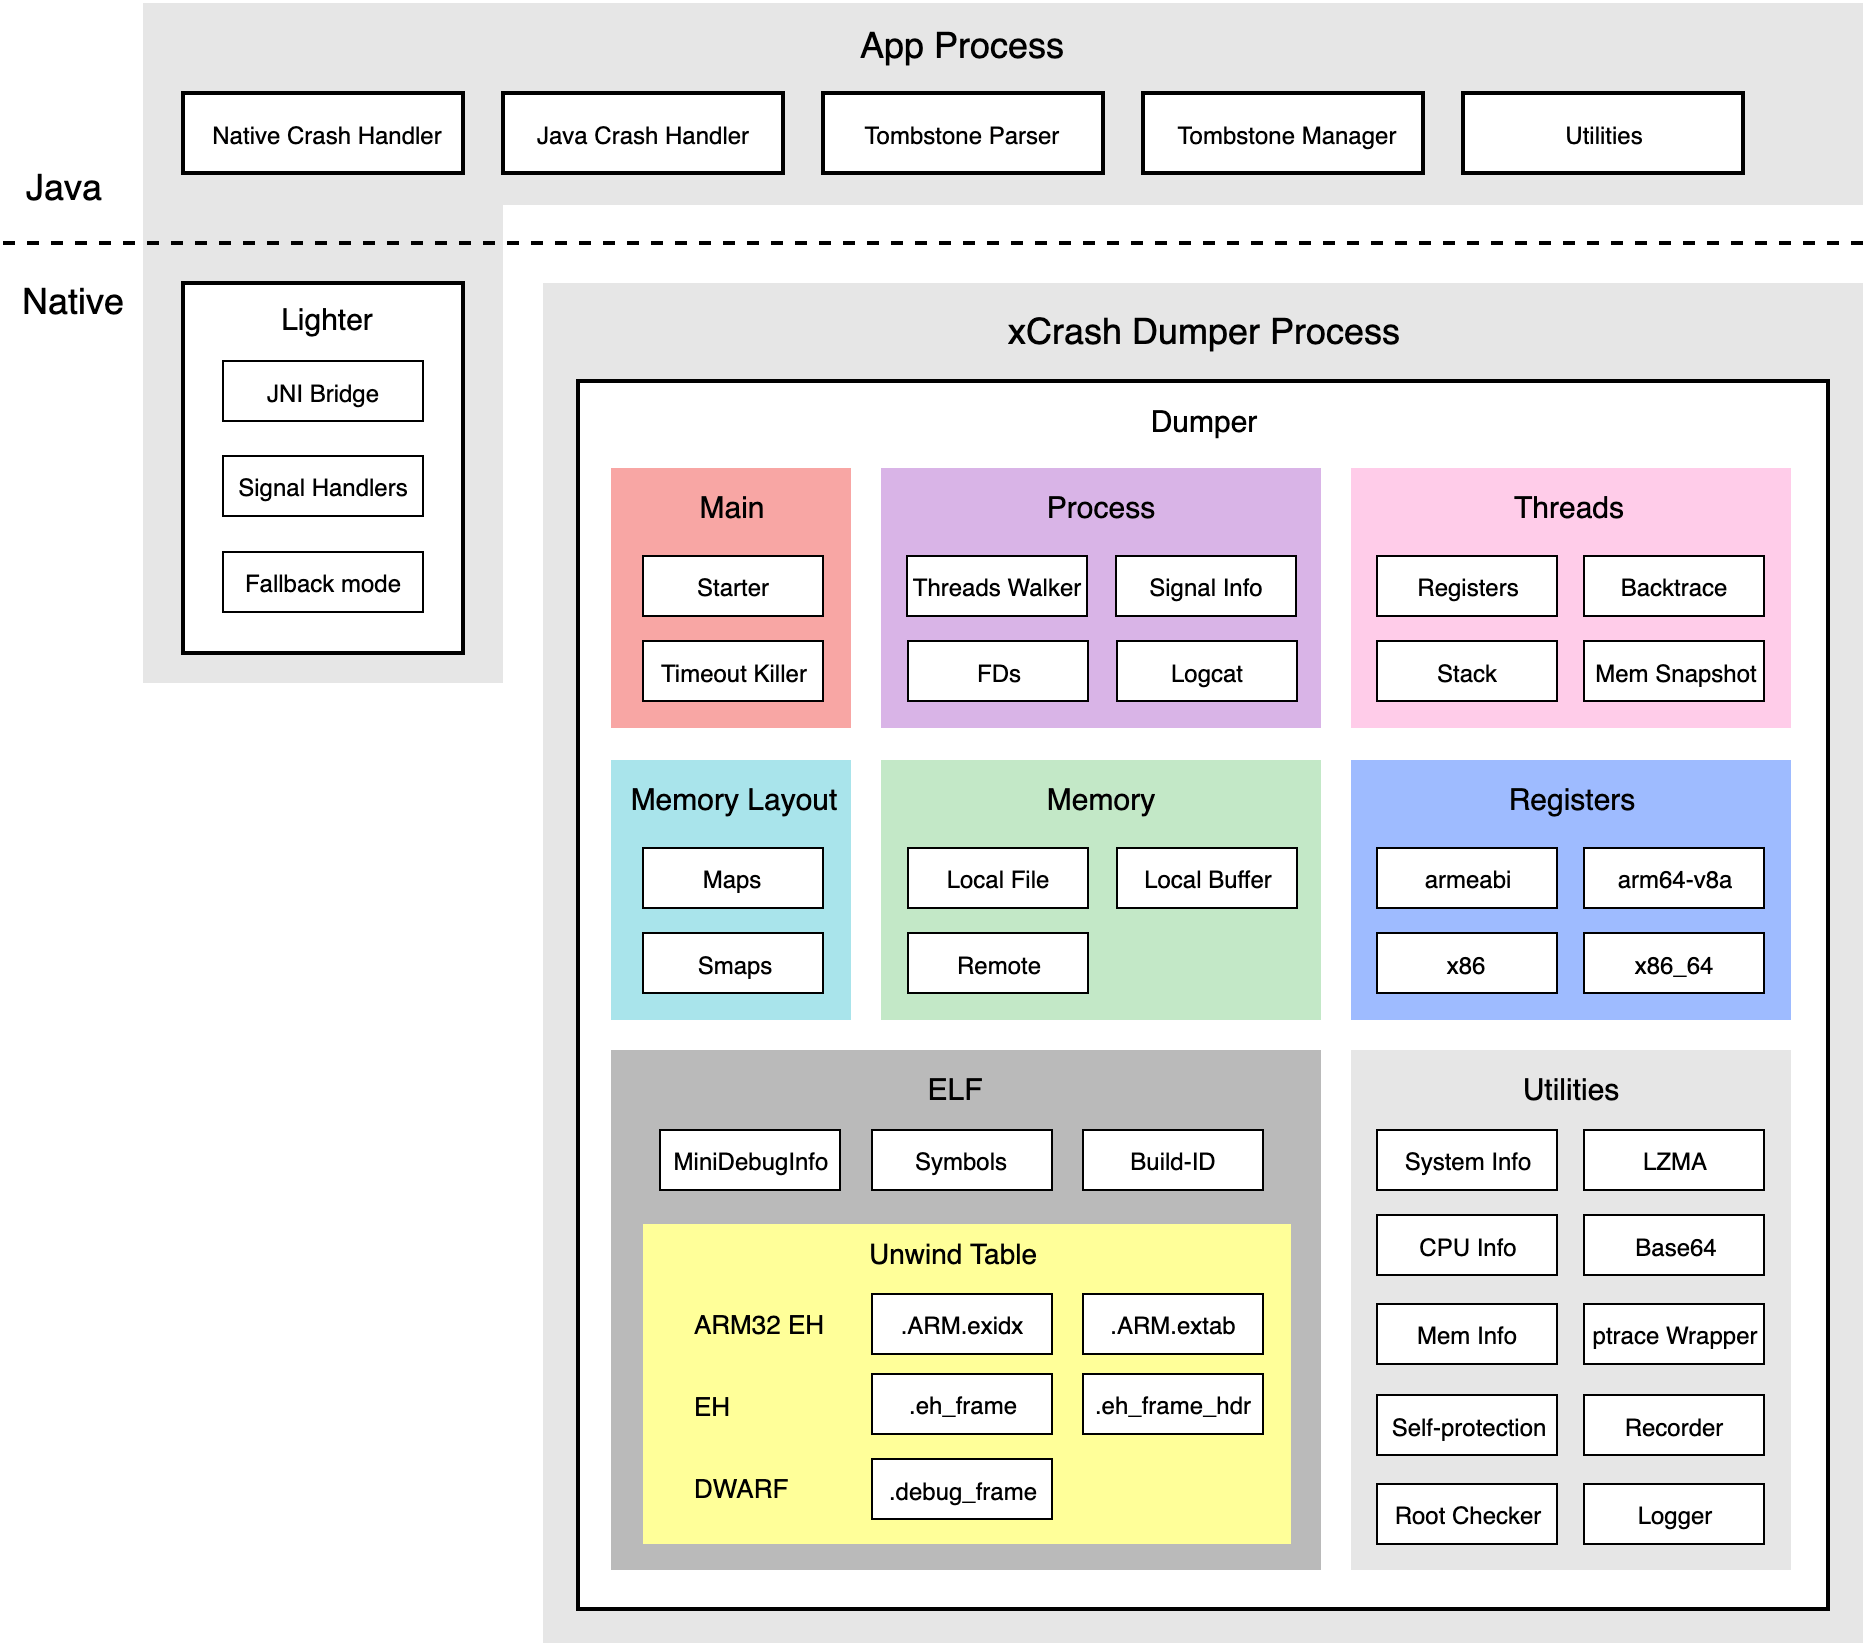
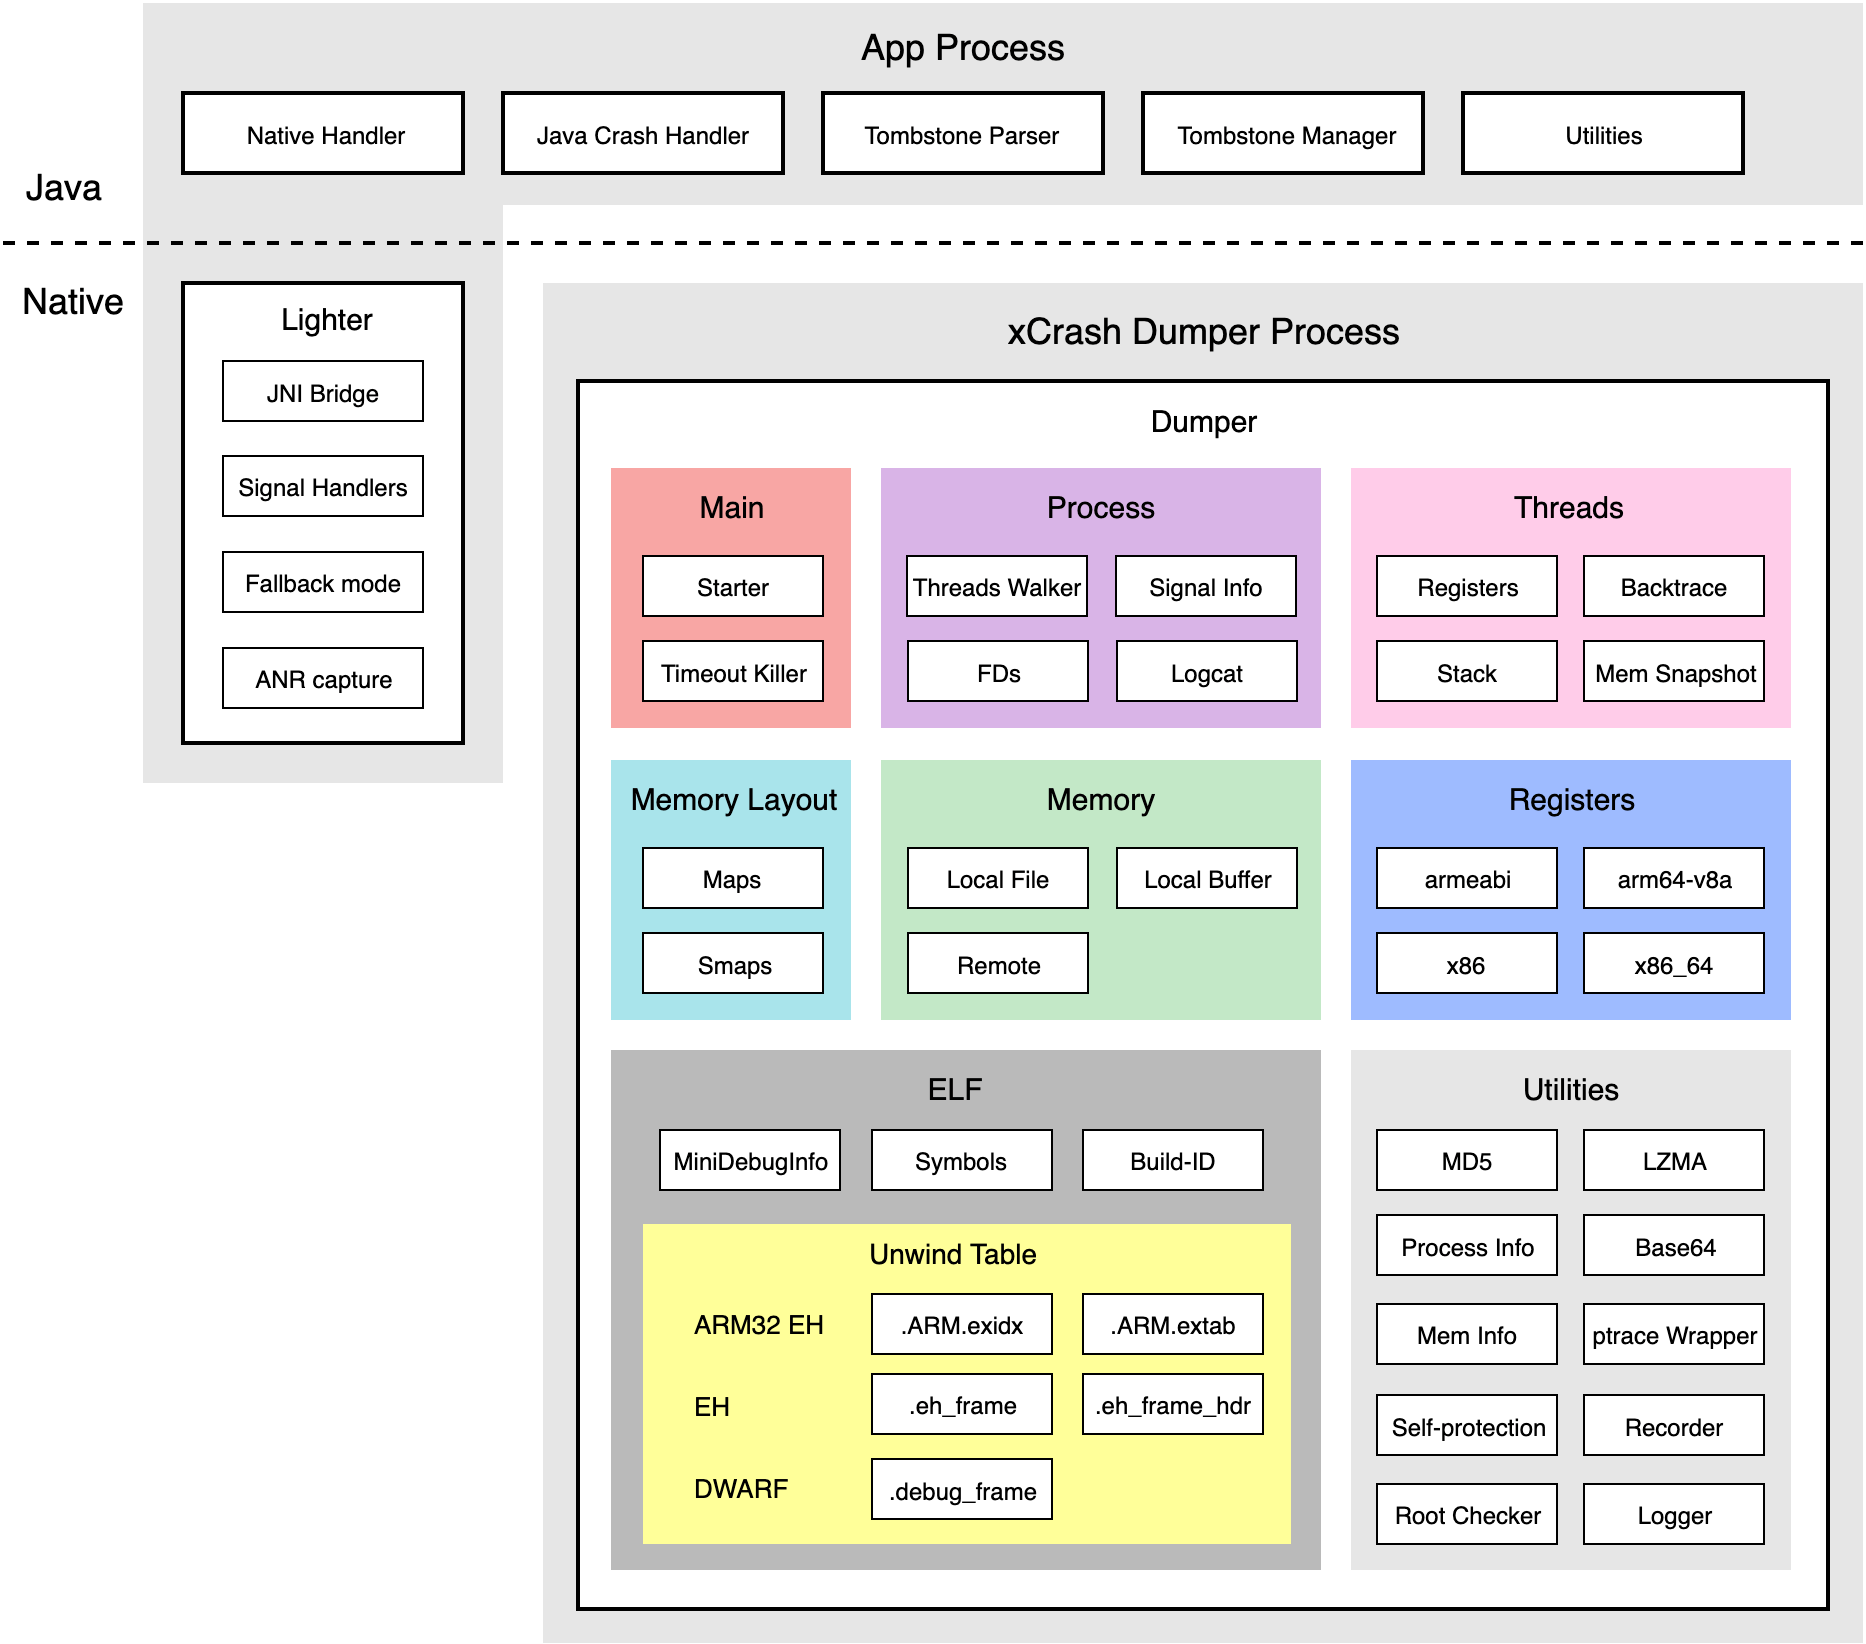
[doc] Update readme for ANR. [doc] Update the QQ group QR code.

diff --git a/README.md b/README.md
@@ -6,9 +6,9 @@
 ![](https://img.shields.io/badge/Android-4.0%20--%2010-blue.svg?style=flat)
 ![](https://img.shields.io/badge/arch-armeabi%20%7C%20armeabi--v7a%20%7C%20arm64--v8a%20%7C%20x86%20%7C%20x86__64-blue.svg?style=flat)
 
-xCrash is a crash reporting library for Android APP. It supports catching native crash and Java exception.
+xCrash provides the Android app with the ability to capture java crashes, native crashes and ANR. (no root permission or any system permissions are required)
 
-xCrash can generate a tombstone file (similar format as Android system's tombstone file) in the directory you specified when the APP process crashes. And, no root permission or any system permissions are required.
+xCrash can generate a tombstone file (similar format as Android system's tombstone file) in the directory you specified when the app process crashes or ANR.
 
 <p align="left"><img src="doc/intro.png" alt="intro" width="320px"></p>
 
@@ -21,9 +21,9 @@ xCrash is used in a variety of Android APPs (including iQIYI Video) from [iQIYI]
 
 * Support Android 4.0 - 10 (API level 14 - 29).
 * Support armeabi, armeabi-v7a, arm64-v8a, x86 and x86_64.
-* Catching native crash and Java exception.
-* Setting which thread's info should be dumped via regular expressions.
+* Capturing java crashes, native crashes and ANR.
 * Dumping detailed memory usage statistics.
+* Setting which thread's info should be dumped via regular expressions.
 * Do not require root permission or any system permissions.
 
 
@@ -121,10 +121,9 @@ cd ./src/java/xcrash/
 1. Check the [xcrash-sample](src/java/xcrash/xcrash_sample).
 2. Communicate on [GitHub issues](https://github.com/iqiyi/xCrash/issues).
 3. Email: <a href="mailto:caikelun@gmail.com">caikelun@gmail.com</a>
-4. WeChat: alan_choi
-5. QQ group: 603635869. QR code:
+4. QQ group: 603635869. QR code:
 
-<p align="left"><img src="doc/qq_group.jpeg" alt="qq group" width="300px"></p>
+<p align="left"><img src="doc/qq_group.jpg" alt="qq group" width="300px"></p>
 
 
 ## Contributing

diff --git a/README.zh-CN.md b/README.zh-CN.md
@@ -6,9 +6,9 @@
 ![](https://img.shields.io/badge/Android-4.0%20--%2010-blue.svg?style=flat)
 ![](https://img.shields.io/badge/arch-armeabi%20%7C%20armeabi--v7a%20%7C%20arm64--v8a%20%7C%20x86%20%7C%20x86__64-blue.svg?style=flat)
 
-xCrash 是一个安卓 APP 的崩溃捕获库，它支持捕获 native 崩溃和 Java 异常。
+xCrash 能为安卓 APP 提供捕获 java 崩溃，native 崩溃和 ANR 的能力。（不需要 root 权限或任何系统权限）
 
-xCrash 能在 App 进程崩溃时，在你指定的目录中生成一个 tombstone 文件（格式与安卓系统的 tombstone 文件类似）。并且，不需要 root 权限或任何系统权限。
+xCrash 能在 App 进程崩溃或 ANR 时，在你指定的目录中生成一个 tombstone 文件（格式与安卓系统的 tombstone 文件类似）。
 
 <p align="left"><img src="doc/intro.png" alt="intro" width="320px"></p>
 
@@ -21,9 +21,9 @@ xCrash 已经在 [爱奇艺](http://www.iqiyi.com/) 的很多安卓 APP（包括
 
 * 支持 Android 4.0 - 10（API level 14 - 29）。
 * 支持 armeabi，armeabi-v7a，arm64-v8a，x86 和 x86_64。
-* 捕获 native 崩溃和 Java 异常。
-* 通过正则表达式设置需要获取哪些线程的信息。
+* 捕获 java 崩溃，native 崩溃和 ANR。
 * 获取详细的内存使用统计信息。
+* 通过正则表达式设置需要获取哪些线程的信息。
 * 不需要 root 权限或任何系统权限。
 
 
@@ -121,10 +121,9 @@ cd ./src/java/xcrash/
 1. 查看 [xcrash-sample](src/java/xcrash/xcrash_sample)。
 2. 在 [GitHub issues](https://github.com/iqiyi/xCrash/issues) 交流。
 3. 邮件: <a href="mailto:caikelun@gmail.com">caikelun@gmail.com</a>
-4. 微信: alan_choi
-5. QQ 群: 603635869。二维码:
+4. QQ 群: 603635869。二维码:
 
-<p align="left"><img src="doc/qq_group.jpeg" alt="qq group" width="320px"></p>
+<p align="left"><img src="doc/qq_group.jpg" alt="qq group" width="300px"></p>
 
 
 ## 贡献
